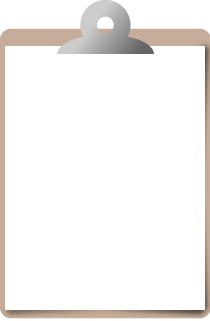
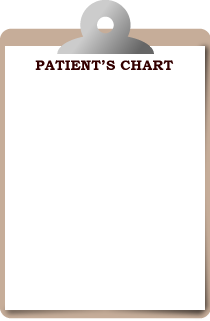
clipboard for patient chart, more

Changed region(s): [[0.1714, 0.1869, 0.5429, 0.2181], [0.5714, 0.1869, 0.8286, 0.2181]]

diff --git a/nutrition/media/css/nutrition.css b/nutrition/media/css/nutrition.css
@@ -50,12 +50,11 @@ span#display_time_text {
 }
 
 div#patient-chart {
-    padding: 0;
+    padding: 80px 0 0 0;
     border: 0;
     background: transparent url('/site_media/img/clipboard.png') 0 0 no-repeat;
     width: 210px;
     height: 321px;
-    font-size: 12px;
 }
 
 #patient-chart-text {
@@ -63,8 +62,25 @@ div#patient-chart {
     background-color: #fff;
     margin-left: 5px;
     margin-right: 5px;
-    height: 200px;
+    height: 220px;
     overflow: auto;
+    font-size: 11px;
+    line-height: 12px;
+}
+
+.session-segment {
+    margin: 0 0 5px 0;
+    padding: 5px;
+    background-color: transparent;
+    border: 1px solid #3399cc;
+}
+
+.session-chart-topic {
+    font-weight: bold;
+}
+
+.session-chart-reply {
+    margin-bottom: 10px;
 }
 
 div.accordion {

diff --git a/templates/nutrition/counseling_js.html b/templates/nutrition/counseling_js.html
@@ -29,8 +29,7 @@
             <div class="time_minutes">minutes</div>
         </div>
         <div id="patient-chart">
-            <h3>Patient Chart</h3>
-            <div id="patient-chart-text"></div>
+             <div id="patient-chart-text"></div>
         </div>
     </div>
     <div id="topic-accordion" class="accordion">
@@ -59,7 +58,7 @@
 </script>
 
 <script type="text/template" id="patient-chart-template">
-    <div id="session-chart-<%= session.attributes.id %>">
+    <div id="session-chart-<%= session.attributes.id %>" class="well session-segment">
         <% if (answered.length > 0) { %>
             <h5><%= session.attributes.patient_chart %></h5>
             <div class="session-chart-answered">

diff --git a/media/css/main.css b/media/css/main.css
@@ -22,6 +22,7 @@ legend
 	background: -moz-linear-gradient(top, #fff, #eee);
 	-moz-border-radius: 10px;
 	-webkit-border-radius: 10px;
+	border-radius: 10px;
 	padding: 5px 10px 5px 10px;
 }
 
